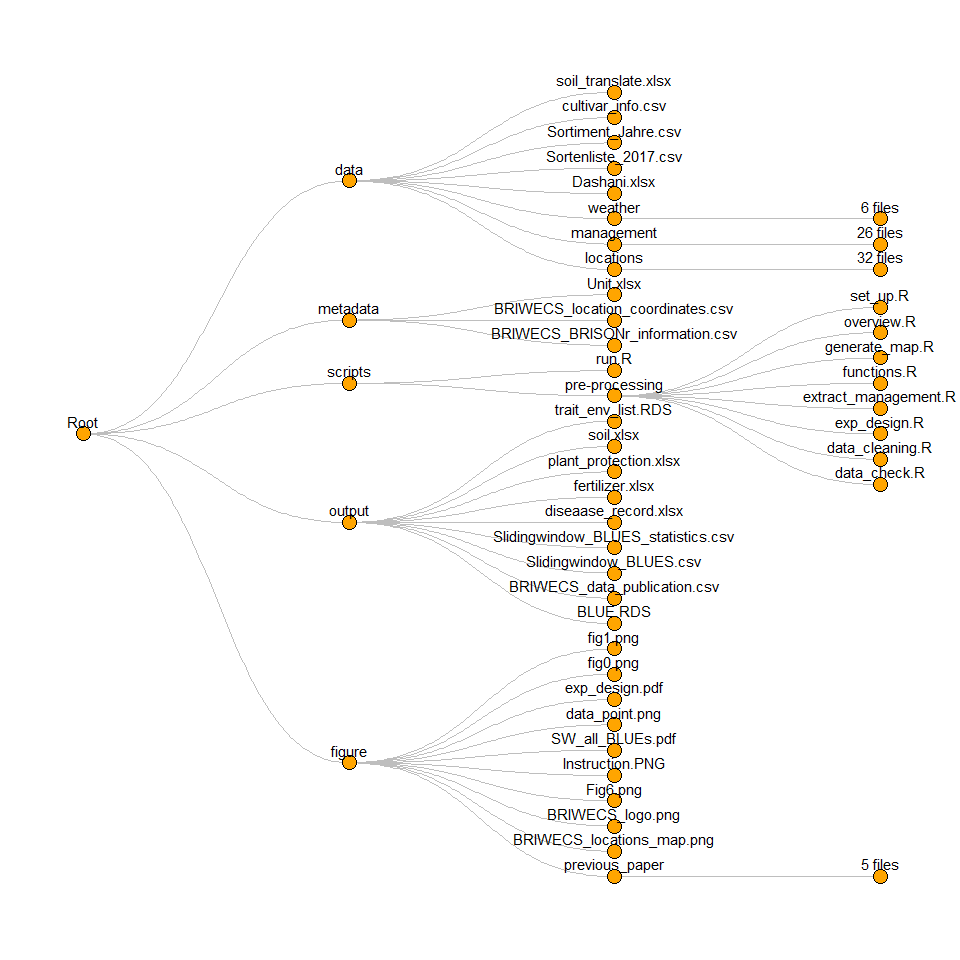
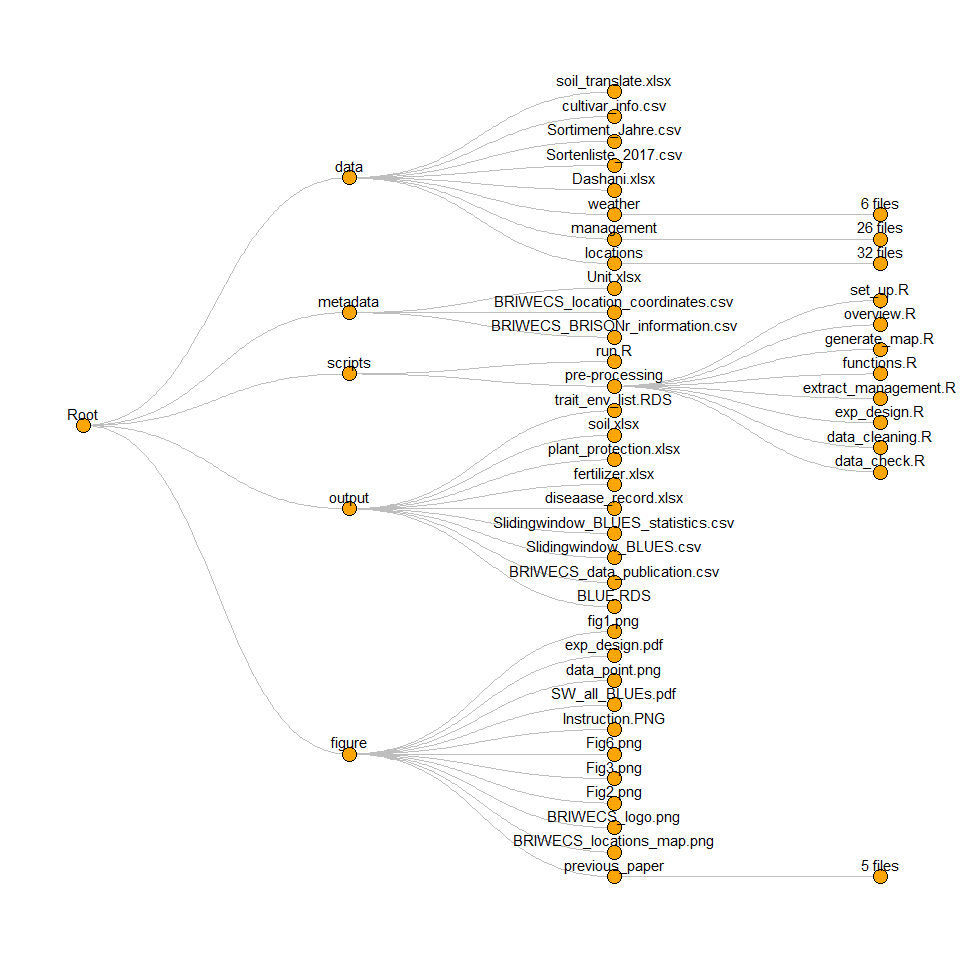
rename figure for consistency

diff --git a/README.md b/README.md
@@ -489,7 +489,7 @@ g
 
 <figure>
 <img
-src="https://github.com/tillrose/BRIWECS_Data_Publication/blob/main/figure/fig0.png"
+src="https://github.com/tillrose/BRIWECS_Data_Publication/blob/main/figure/fig1.png"
 data-fig-align="center"
 alt="Fig1. Experiments location and soil properties." />
 <figcaption aria-hidden="true">Fig1. Experiments location and soil
@@ -498,7 +498,7 @@ properties.</figcaption>
 
 <figure>
 <img
-src="https://github.com/tillrose/BRIWECS_Data_Publication/blob/main/figure/fig1.png"
+src="https://github.com/tillrose/BRIWECS_Data_Publication/blob/main/figure/Fig2.png"
 data-fig-align="center"
 alt="Fig2. An overview of MET data descriptor of winter wheat containing 24 traits collected across six locations in Germany (GGE, HAN, KAL, KIE, QLB, RHH) with nine incomplete managements (HN_WF_RO, LN_NF_IR, HN_NF_IR, HN_WF_IR, HN_WF_RF, LN_WF_IR, HN_NF_RF, LN_NF_RF and LN_WF_RF) during six years (2015-2020)." />
 <figcaption aria-hidden="true">Fig2. An overview of MET data descriptor
@@ -510,7 +510,7 @@ LN_NF_RF and LN_WF_RF) during six years (2015-2020).</figcaption>
 
 <figure>
 <img
-src="https://github.com/tillrose/BRIWECS_Data_Publication/blob/main/figure/data_point.png"
+src="https://github.com/tillrose/BRIWECS_Data_Publication/blob/main/figure/Fig3.png"
 data-fig-align="center"
 alt="Fig3.Scatter plot of 29 combinations of location by year by management (LxYxM) versus 228 genotypes for 24 traits." />
 <figcaption aria-hidden="true">Fig3.Scatter plot of 29 combinations of
